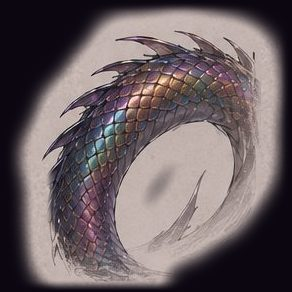
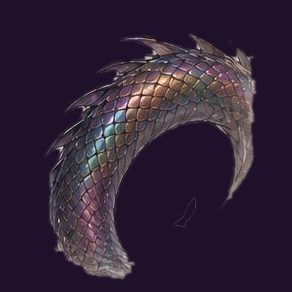
Recortes de Aurelia sin fondo (transparencia real) sobre láminas con degradado
Claude-Session: https://claude.ai/code/session_015y66tGhFXGqDMfCXcQhCLo

diff --git a/leyountempest/index.html b/leyountempest/index.html
@@ -129,9 +129,16 @@ section.alt { background: var(--bg-alt); }
 .pill-row { display: flex; flex-wrap: wrap; gap: var(--sp-2); margin-top: var(--sp-2); }
 .pill { font-size: 15px; padding: var(--sp-1) 12px; border-radius: 999px; color: var(--ink-dim); background: color-mix(in srgb, var(--violet) 12%, transparent); }
 
+/* ---------- láminas: fondo con degradado donde se apoyan los recortes sin fondo ---------- */
+.lamina, .cuerpo, .verdadera figure, .detalle picture {
+  background: radial-gradient(120% 90% at 50% 30%, #3a2150 0%, #241333 55%, #170c22 100%);
+  border-radius: 16px;
+  box-shadow: inset 0 0 0 1px rgba(155, 107, 214, .16);
+}
+
 /* ---------- Aurelia: composición editorial ---------- */
 .diseno { display: grid; grid-template-columns: minmax(0, 5fr) minmax(0, 6fr); gap: var(--sp-5); align-items: center; }
-.cuerpo { margin: 0; justify-self: center; width: min(100%, 420px); }
+.cuerpo { margin: 0; justify-self: center; width: min(100%, 420px); padding: var(--sp-4) var(--sp-4) var(--sp-3); }
 .cuerpo img { display: block; width: 100%; height: auto; }
 .oc-texto { display: flex; flex-direction: column; gap: var(--sp-4); align-items: flex-start; }
 .retrato { display: block; width: 200px; height: 200px; border-radius: 50%; object-fit: cover; box-shadow: 0 0 0 2px var(--accent-deep), 0 0 0 10px rgba(155, 107, 214, .14), 0 24px 48px rgba(0, 0, 0, .5); }
@@ -143,7 +150,8 @@ section.alt { background: var(--bg-alt); }
 .subbloque { margin-top: var(--sp-6); }
 .detalles { list-style: none; margin: 0; padding: 0; display: grid; gap: var(--sp-4); grid-template-columns: 1fr; }
 .detalle { display: grid; grid-template-columns: 112px 1fr; gap: var(--sp-3); align-items: center; margin: 0; }
-.detalle img { display: block; width: 112px; height: 112px; object-fit: contain; }
+.detalle picture { display: block; padding: var(--sp-2); width: 112px; height: 112px; }
+.detalle img { display: block; width: 100%; height: 100%; object-fit: contain; border-radius: 10px; }
 .detalle figcaption { font-size: 17px; color: var(--ink-dim); line-height: 1.4; }
 .detalle figcaption b { display: block; color: var(--ink); font-size: 20px; margin-bottom: var(--sp-1); }
 
@@ -159,6 +167,7 @@ section.alt { background: var(--bg-alt); }
 /* ---------- forma verdadera ---------- */
 .verdadera { display: grid; grid-template-columns: minmax(0, 7fr) minmax(0, 5fr); gap: var(--sp-5); align-items: center; }
 .verdadera figure { margin: 0; }
+.verdadera figure { padding: var(--sp-4); }
 .verdadera img { display: block; width: 100%; max-width: 665px; height: auto; margin-inline: auto; }
 
 /* ---------- espacios de imagen (Alice y modelos) ---------- */
@@ -205,7 +214,7 @@ footer { padding-block: var(--sp-4) var(--sp-5); color: var(--ink-dim); font-siz
 @media (min-width: 760px) {
   .detalles { grid-template-columns: repeat(3, 1fr); gap: var(--sp-5); }
   .detalle { grid-template-columns: 1fr; justify-items: center; text-align: center; gap: var(--sp-3); }
-  .detalle img { width: min(100%, 260px); height: auto; aspect-ratio: 1; }
+  .detalle picture { width: min(100%, 260px); height: auto; aspect-ratio: 1; padding: var(--sp-3); }
   .retrato { width: 240px; height: 240px; }
   .expr { flex-wrap: nowrap; }
   .expr li { width: 128px; flex: 0 1 128px; }
@@ -342,7 +351,7 @@ footer { padding-block: var(--sp-4) var(--sp-5); color: var(--ink-dim); font-siz
             <figure class="detalle">
               <picture>
                 <source type="image/webp" srcset="assets/aurelia/aurelia-vestido.webp 396w" sizes="(min-width: 760px) 260px, 112px">
-                <img src="assets/aurelia/aurelia-vestido.jpg" width="396" height="396" loading="lazy" decoding="async"
+                <img src="assets/aurelia/aurelia-vestido.jpg" width="368" height="368" loading="lazy" decoding="async"
                      alt="Detalle del vestido de Aurelia: cuello alto de malla negra con una joya violeta, corsé con adornos dorados y mangas transparentes con volantes">
               </picture>
               <figcaption><b>Vestido y joya</b>Vestido negro con detalles color corinto y adornos dorados.</figcaption>

diff --git a/leyountempest/herramientas/recortes.py b/leyountempest/herramientas/recortes.py
@@ -19,7 +19,7 @@ from PIL import Image, ImageDraw, ImageFilter
 RAIZ = os.path.dirname(os.path.dirname(os.path.abspath(__file__)))
 ASSETS = os.path.join(RAIZ, "assets")
 SALIDA = os.path.join(ASSETS, "aurelia")
-FONDO = (11, 6, 16)  # #0b0610
+FONDO = (31, 17, 41)  # #1f1129: color medio de la lámina donde se colocan los recortes
 CALIDAD = 82
 DEBUG = "--debug" in sys.argv
 rng = np.random.default_rng(7)
@@ -162,6 +162,48 @@ def fundir(im, fade, halo=None, umbral=46):
     return rgba
 
 
+def recortar(im, umbral=40, suelo_desde=None):
+    """Quita el fondo de papel: todo lo conectado al borde que se parece al papel pasa a transparente.
+    Devuelve RGBA. Cierra huecos finos (tul, encaje), rellena islas internas y suaviza 1 px el contorno."""
+    a = np.asarray(im).astype(np.float32)
+    suave = np.asarray(im.filter(ImageFilter.GaussianBlur(1.2))).astype(np.float32)
+    papel = np.median(np.concatenate([a[:8].reshape(-1, 3), a[-8:].reshape(-1, 3)]), axis=0)
+    tinta = np.abs(suave - papel).max(2) > umbral
+    if suelo_desde is not None:  # sombras grises del suelo: claras y sin color, solo en la franja inferior
+        gris = np.abs(suave - papel).max(2) < 80   # tonos de papel/sombra del suelo
+        gris[:suelo_desde] = False
+        tinta &= ~gris
+    tinta = tinta.astype(np.uint8) * 255
+    m = Image.fromarray(tinta).filter(ImageFilter.MaxFilter(5)).filter(ImageFilter.MinFilter(5))
+    ImageDraw.floodfill(m, (0, 0), 128, thresh=0)           # fondo conectado al borde
+    fig = (np.asarray(m) != 128).astype(np.uint8) * 255     # figura + islas interiores
+    f = Image.fromarray(fig).filter(ImageFilter.MinFilter(3)).filter(ImageFilter.MaxFilter(3))  # quita motas
+    f = f.filter(ImageFilter.MinFilter(3)).filter(ImageFilter.GaussianBlur(0.9))                # contorno limpio
+    f = quitar_motas(f, minimo=500)
+    rgba = im.convert("RGBA")
+    rgba.putalpha(f)
+    return rgba
+
+
+def quitar_motas(mascara, minimo):
+    """Elimina componentes sueltos con menos de `minimo` píxeles (restos de bocetos y manchas)."""
+    m = mascara.point(lambda v: 255 if v > 90 else 0)
+    base = np.asarray(mascara).copy()
+    while True:
+        arr = np.asarray(m)
+        pts = np.argwhere(arr == 255)
+        if len(pts) == 0:
+            break
+        y, x = pts[0]
+        tmp = m.copy()
+        ImageDraw.floodfill(tmp, (int(x), int(y)), 128, thresh=0)
+        comp = np.asarray(tmp) == 128
+        if comp.sum() < minimo:
+            base[comp] = 0
+        m = Image.fromarray(np.where(comp, 0, arr).astype(np.uint8))
+    return Image.fromarray(base)
+
+
 def sobre_fondo(rgba):
     fondo = Image.new("RGB", rgba.size, FONDO)
     fondo.paste(rgba, mask=rgba.split()[3])
@@ -224,7 +266,7 @@ zonas_cuerpo = [
 c = limpiar(concepto, lam_c, sig_c, zonas_cuerpo)
 # margen de papel extra: la cola llega al borde izquierdo de la hoja
 cuerpo = lienzo(c, (-44, -36, 546, 1112), lam_c, sig_c)
-exportar("aurelia-cuerpo", fundir(cuerpo, 14, halo=(22, 18)))
+exportar("aurelia-cuerpo", recortar(cuerpo, suelo_desde=1010))
 
 # ---- detalle del vestido y la joya del cuello (torso de la hoja de concepto)
 zonas_vestido = [
@@ -235,7 +277,7 @@ zonas_vestido = [
 ]
 c = limpiar(concepto, lam_c, sig_c, zonas_vestido)
 vestido = lienzo(c, (100, 190, 468, 548), lam_c, sig_c, aspecto=1.0, margen=14)
-exportar("aurelia-vestido", fundir(vestido, 30, halo=(18, 16)))
+exportar("aurelia-vestido", vestido.crop((14, 14, vestido.width - 14, vestido.height - 14)))
 
 # ---- cola de escamas arcoíris (boceto de detalle)
 zonas_cola = [
@@ -247,7 +289,7 @@ zonas_cola = [
 ]
 c = limpiar(concepto, lam_c, sig_c, zonas_cola)
 cola = lienzo(c, (548, 700, 778, 972), lam_c, sig_c, aspecto=1.0, margen=10)
-exportar("aurelia-cola", fundir(cola, 12, halo=(14, 14)))
+exportar("aurelia-cola", recortar(cola))
 
 # ---- garras (boceto de detalle de la mano)
 zonas_garras = [
@@ -260,7 +302,7 @@ zonas_garras = [
 ]
 c = limpiar(concepto, lam_c, sig_c, zonas_garras)
 garras = lienzo(c, (788, 700, 975, 972), lam_c, sig_c, aspecto=1.0, margen=10)
-exportar("aurelia-garras", fundir(garras, 12, halo=(14, 14)))
+exportar("aurelia-garras", recortar(garras))
 
 # ---- forma verdadera: dragón de cuatro alas
 zonas_dragon = [
@@ -284,7 +326,7 @@ zonas_dragon = [
 ]
 c = limpiar(concepto, lam_c, sig_c, zonas_dragon)
 dragon = lienzo(c, (162, 958, 775, 1500), lam_c, sig_c, margen=26)
-exportar("aurelia-dragon", fundir(dragon, 14, halo=(22, 18)))
+exportar("aurelia-dragon", recortar(dragon, suelo_desde=430))
 
 # ---- rostro y cuernos: del retrato de alta resolución (la hoja da solo ~260×390 px)
 # El anillo dorado y la estrella inferior quedan fuera del círculo inscrito; en la página se muestra con border-radius:50%.
